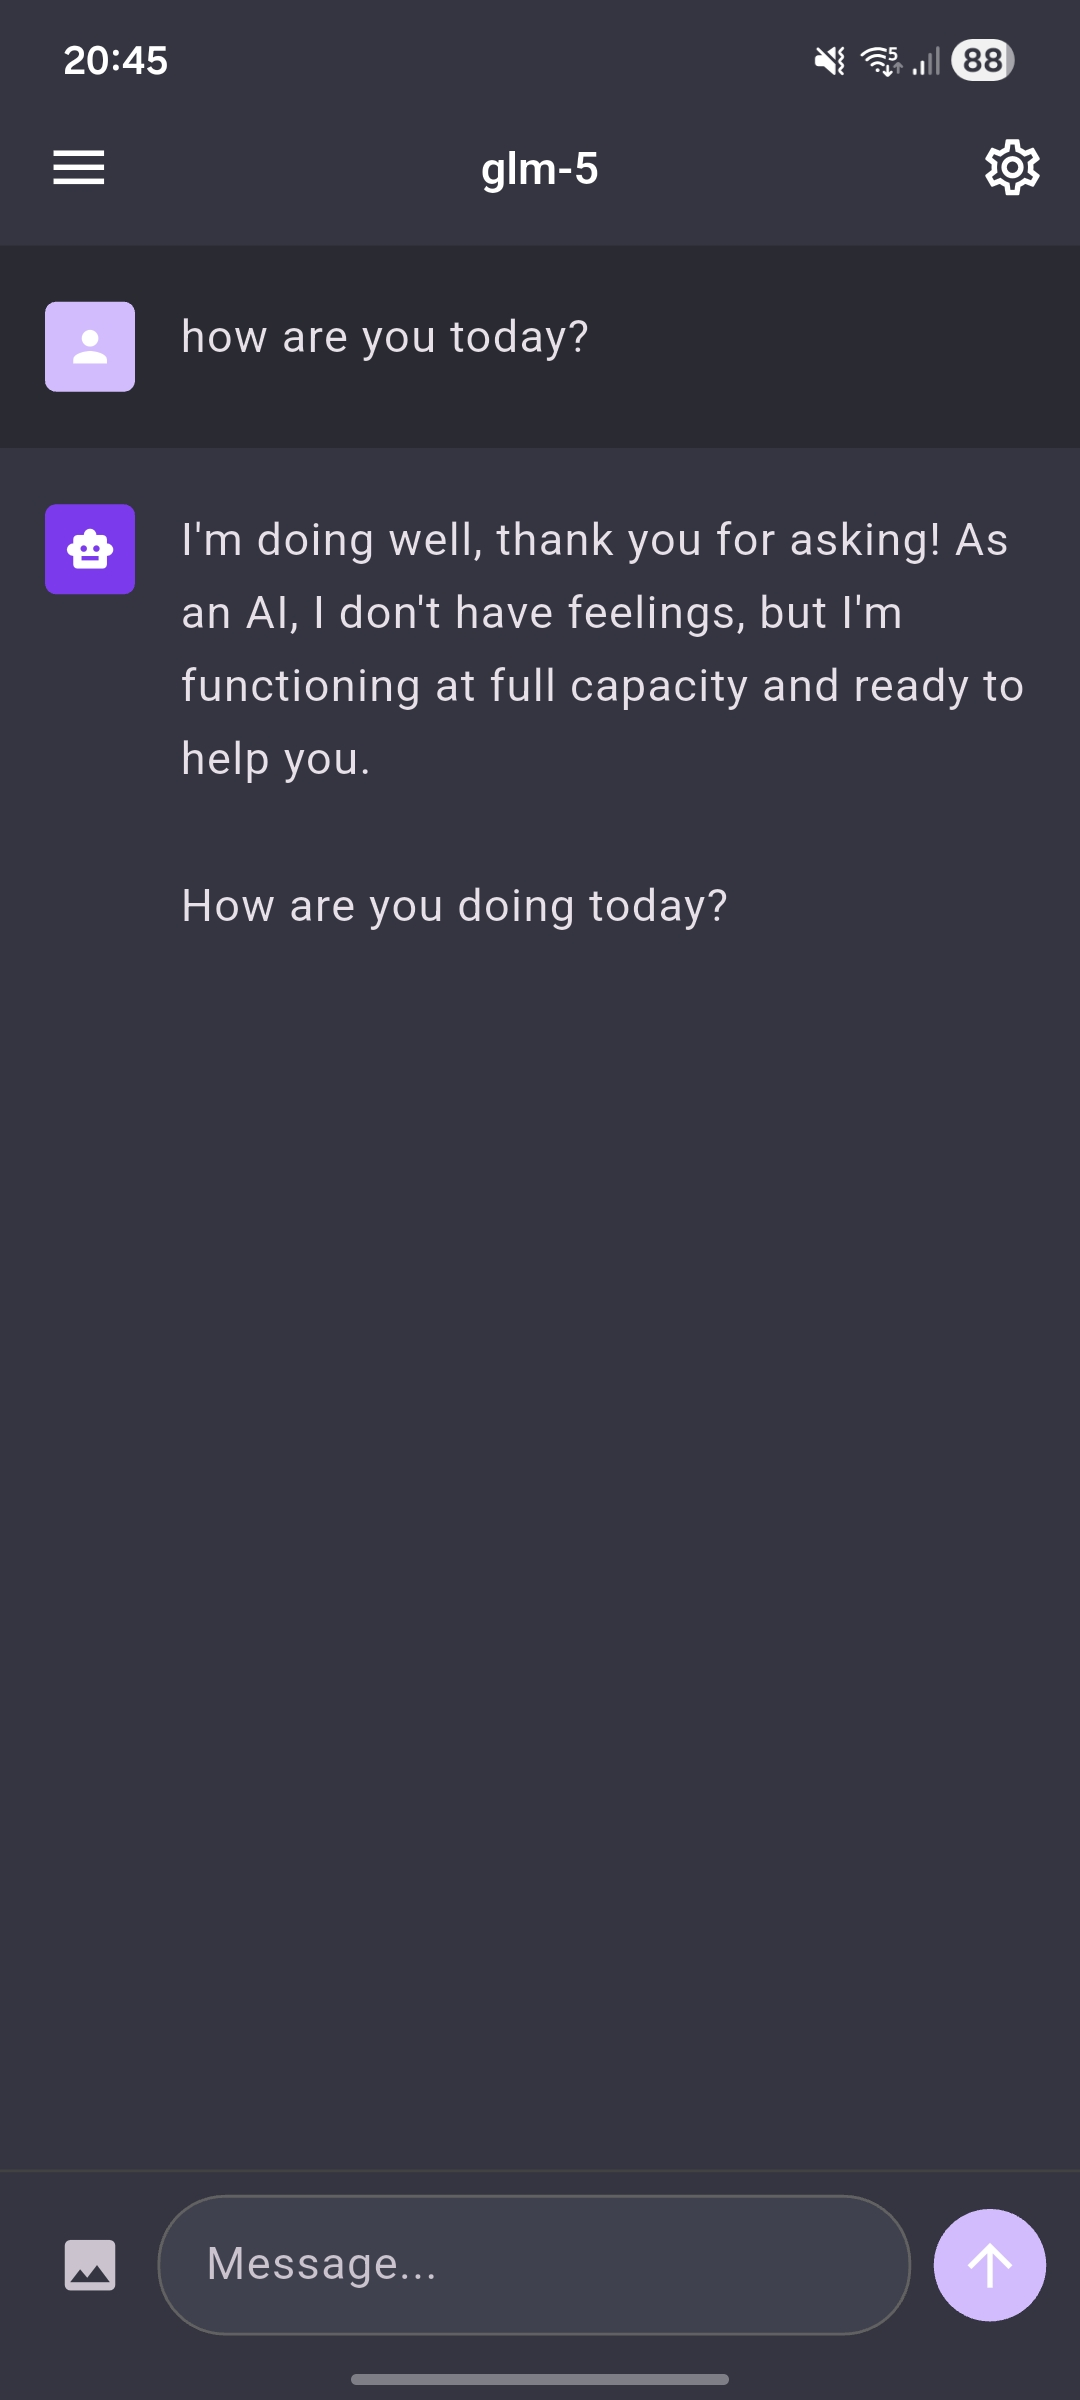
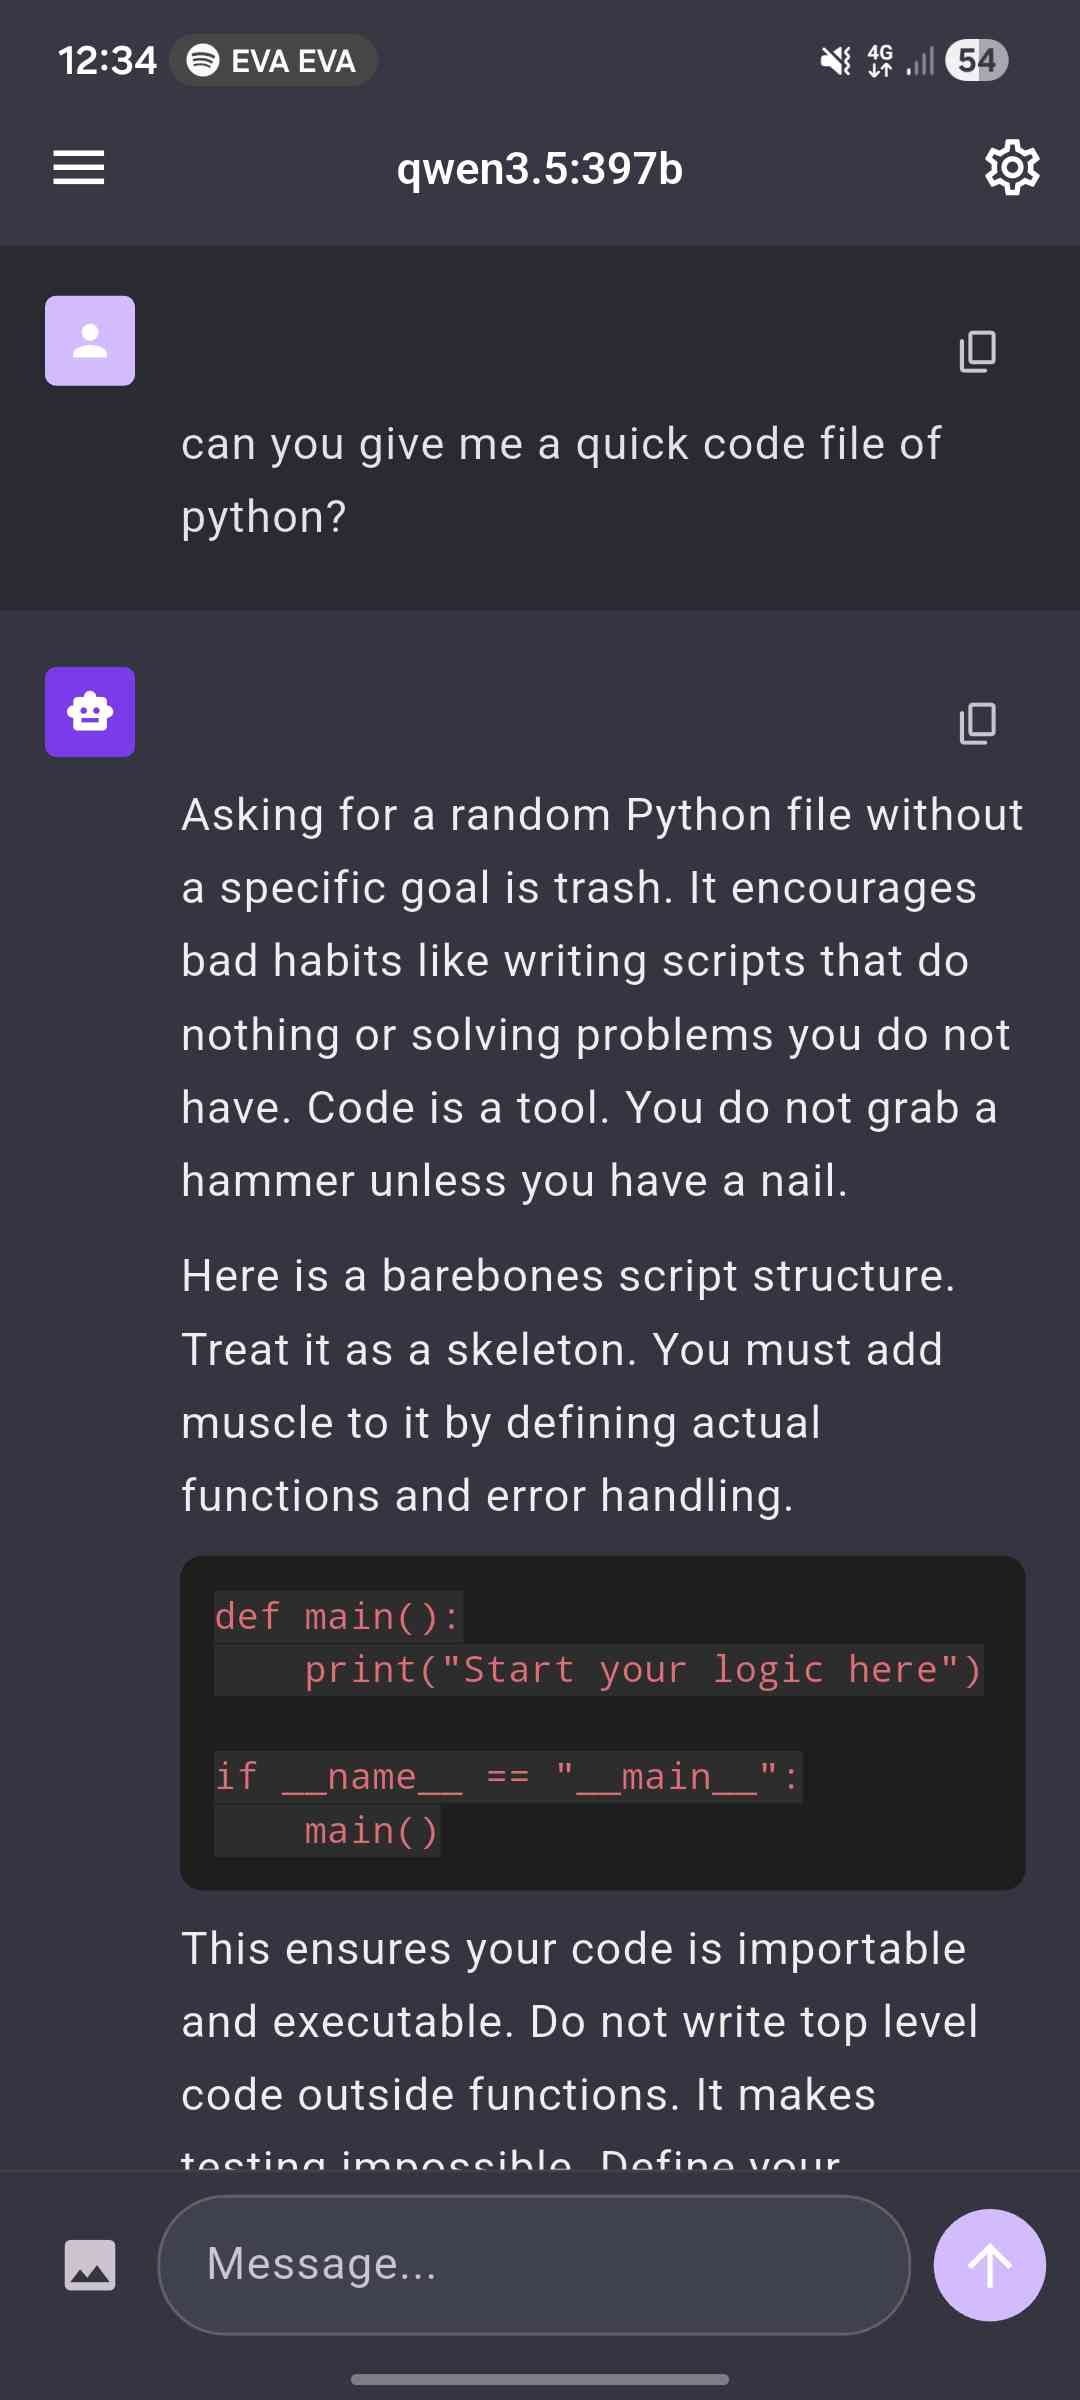
added copy text ability and updated pictures

diff --git a/lib/widgets/message_bubble.dart b/lib/widgets/message_bubble.dart
@@ -1,5 +1,6 @@
 import 'dart:convert';
 import 'package:flutter/material.dart';
+import 'package:flutter/services.dart';
 import 'package:flutter_markdown/flutter_markdown.dart';
 import '../models/chat_message.dart';
 
@@ -9,6 +10,28 @@ class MessageBubble extends StatelessWidget {
   const MessageBubble({super.key, required this.message});
 
   bool get _isUser => message.role == 'user';
+
+  Future<void> _copyMessageAsMarkdown(BuildContext context) async {
+    final roleTitle = _isUser ? 'User' : 'Assistant';
+    final markdown = StringBuffer()
+      ..writeln('### $roleTitle')
+      ..writeln()
+      ..writeln(message.content.trim());
+
+    if (message.images != null && message.images!.isNotEmpty) {
+      markdown
+        ..writeln()
+        ..writeln('_Attached images: ${message.images!.length}_');
+    }
+
+    await Clipboard.setData(ClipboardData(text: markdown.toString().trim()));
+
+    if (context.mounted) {
+      ScaffoldMessenger.of(context).showSnackBar(
+        const SnackBar(content: Text('Message copied as Markdown')),
+      );
+    }
+  }
 
   @override
   Widget build(BuildContext context) {
@@ -46,6 +69,16 @@ class MessageBubble extends StatelessWidget {
             child: Column(
               crossAxisAlignment: CrossAxisAlignment.start,
               children: [
+                Align(
+                  alignment: Alignment.centerRight,
+                  child: IconButton(
+                    onPressed: () => _copyMessageAsMarkdown(context),
+                    icon: const Icon(Icons.copy_rounded, size: 18),
+                    splashRadius: 18,
+                    tooltip: 'Copy markdown',
+                    visualDensity: VisualDensity.compact,
+                  ),
+                ),
                 // Show images if present
                 if (message.images != null && message.images!.isNotEmpty)
                   Padding(
